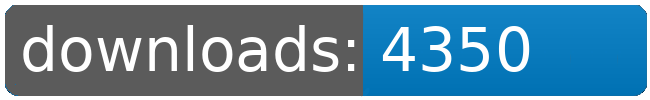
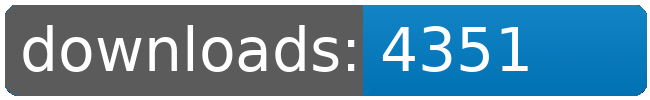
dl log written

Changed region(s): [[0.7692, 0.24, 0.8308, 0.72]]

diff --git a/README.md b/README.md
@@ -32,8 +32,8 @@
 		<td>4304</td>
 		<td>4325</td>
 		<td>4346</td>
-		<td>4350</td>
-		<td>+ 4</td>
+		<td>4351</td>
+		<td>+ 5</td>
 	</tr>
 	<tr>
 		<td>Fundamental.Outfit.Expansion</td>
@@ -109,8 +109,8 @@
 		<td></td>
 		<td></td>
 		<td></td>
-		<td>36325</td>
-		<td>31</td>
+		<td>36326</td>
+		<td>32</td>
 	</tr>
 </table>
 </sub></sup>
@@ -190,8 +190,8 @@
 		<td>4304</td>
 		<td>4325</td>
 		<td>4346</td>
-		<td>4350</td>
-		<td>+ 4</td>
+		<td>4351</td>
+		<td>+ 5</td>
 	</tr>
 	<tr>
 		<td>Jaws</td>
@@ -223,8 +223,8 @@
 		<td></td>
 		<td></td>
 		<td></td>
-		<td>36325</td>
-		<td>31</td>
+		<td>36326</td>
+		<td>32</td>
 	</tr>
 </table>
 </sub></sup>
